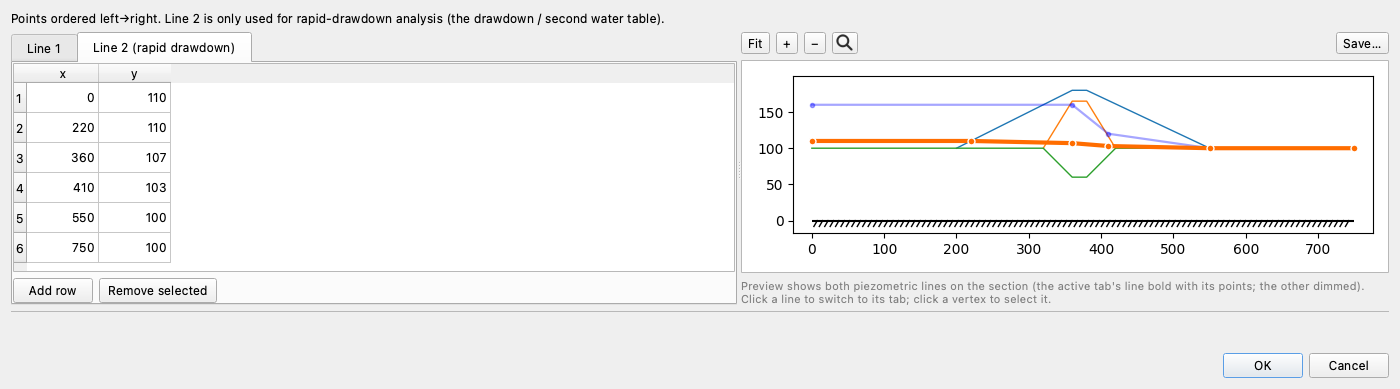
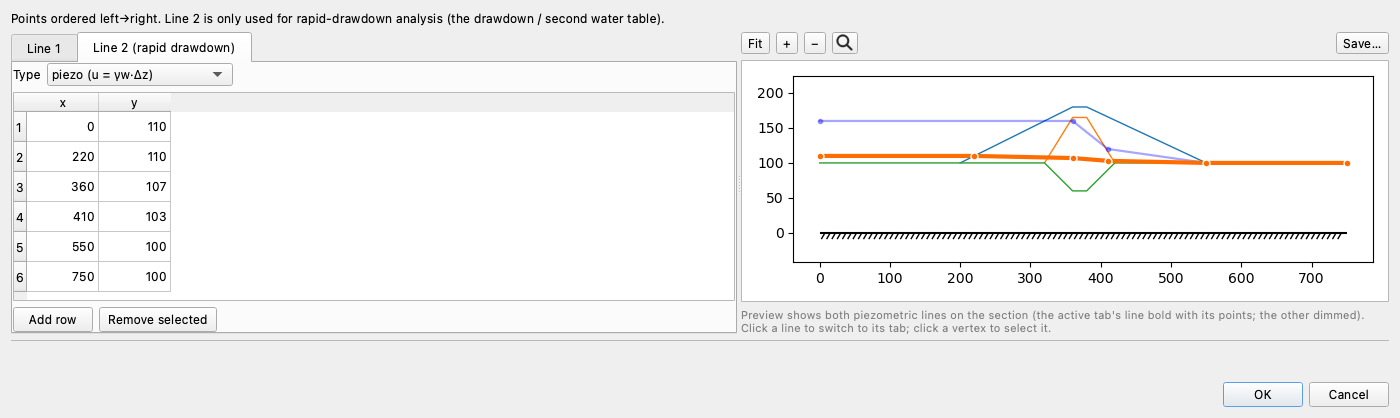
Studio's Piezometric lines editor sets each line's Type (piezo or phreatic) in a box above its table; until now only the workbook could (Norm, 236a, 255a)
The piezo sheet's Type cells (B3 for line 1, E3 for line 2) decide how the pore
pressure under a line is computed: piezo, the full static head; phreatic, the
static head times cos^2 of the line's slope above the point. The editor showed
only the points, and the CE 544 seepage deck told students to set the Type in
the workbook.

- TabbedTableEditorDialog takes an optional per-tab property (tab_props), a
  combo above the tab's table, read back with tab_prop(i).
- PiezoEditor: 'piezo (u = gw.dz)' / 'phreatic (u = gw.dz.cos2 theta)' on each
  tab, with a tooltip; apply() writes piezo_phreatic and piezo_phreatic2. Tab
  names unchanged (LEM-4 names them).
- test/piezo_editor_check.py (run_tests roundtrip row 'piezo_editor'): the
  boxes show what the model holds in all four combinations, OK untouched writes
  them back, a flip is written and survives a save (B3/E3 read
  'phreatic'/'piezo'). Fails on main (no tab_prop).
- Docs: the editors table names the Type; the input template page says Studio
  sets it; LEM-4 says to leave Type at piezo. The three tutorial screenshots of
  the editor (LEM-4, LEM-5, COMBO-2) are recaptured with the box.

table_paste_check and docs_links_check pass.

Claude-Session: https://claude.ai/code/session_019MWct99sAN4cmZsDr6H3a8

diff --git a/test/piezo_editor_check.py b/test/piezo_editor_check.py
@@ -1,0 +1,125 @@
+"""Standing checks on the Studio Piezometric lines editor's Type, one per line.
+
+Each piezometric line carries a Type, the piezo sheet's Type cell (B3 for line 1, E3 for
+line 2): piezo, where u is the full static head below the line, or phreatic, where the
+static head is reduced by cos^2 of the line's slope. Until 2026-11 the editor showed only
+the points, so a phreatic line could be set only in the workbook, and the CE 544
+seepage deck told students so. Now each tab has a Type box above its table.
+
+  A. THE EDITOR SHOWS EACH LINE'S TYPE. Opened on a model whose line 1 is phreatic and
+     whose line 2 is piezo, the two boxes read phreatic and piezo, and the other way
+     round.
+  B. OK WRITES THE CHOICE. Flipping both boxes and pressing OK sets piezo_phreatic and
+     piezo_phreatic2 to match.
+  C. OPEN AND OK CHANGES NOTHING. Untouched, the editor writes back the Types it was
+     opened on, in all four combinations.
+  D. THE TYPE SURVIVES A SAVE. The model saved and read back carries the Types the
+     editor set, and the piezo sheet's B3 and E3 read 'phreatic' or 'piezo'.
+  E. THE TABS KEEP THEIR NAMES. Tutorial LEM-4 names them: "Line 1" and
+     "Line 2 (rapid drawdown)".
+
+Skips cleanly (exit 0) when PySide6 is not installed.
+"""
+import contextlib
+import io
+import os
+import sys
+import tempfile
+
+_HERE = os.path.dirname(os.path.abspath(__file__))
+_REPO = os.path.dirname(_HERE)
+if _REPO not in sys.path:
+    sys.path.insert(0, _REPO)
+
+os.environ.setdefault("QT_QPA_PLATFORM", "offscreen")
+
+#: A shipped model with a piezometric line on line 1.
+MODEL = os.path.join(_REPO, "docs/lem/files/xslope_gsat_piezo.xlsx")
+TABS = ("Line 1", "Line 2 (rapid drawdown)")
+
+
+def _load(path):
+    from xslope.fileio import load_slope_data
+    with contextlib.redirect_stdout(io.StringIO()):
+        return load_slope_data(path)
+
+
+def _boxes(dlg):
+    """The Type each tab's box shows, as the bool it stands for."""
+    return tuple(bool(dlg.tab_prop(i)) for i in range(2))
+
+
+def _set(dlg, i, phreatic):
+    combo, values = dlg._tab_combos[i]
+    combo.setCurrentIndex(values.index(phreatic))
+
+
+def run():
+    try:
+        from PySide6.QtWidgets import QApplication, QTabWidget
+    except ImportError:
+        print("  PySide6 not installed: skipped")
+        return []
+    QApplication.instance() or QApplication([])
+    from studio.editors import PiezoEditor
+    fails = []
+    base = _load(MODEL)
+
+    # A and C: what the boxes show, and that OK untouched writes it back
+    for types in ((True, False), (False, True), (False, False), (True, True)):
+        data = dict(base, piezo_phreatic=types[0], piezo_phreatic2=types[1])
+        ed = PiezoEditor()
+        dlg = ed.build(data, None)
+        shown = _boxes(dlg)
+        if shown != types:
+            fails.append(f"A. opened on Types {types}, the boxes read {shown}")
+        out = dict(data)
+        ed.apply(out, dlg)
+        if (out["piezo_phreatic"], out["piezo_phreatic2"]) != types:
+            fails.append(f"C. opened on {types} and OK'd untouched, the editor wrote "
+                         f"{(out['piezo_phreatic'], out['piezo_phreatic2'])}")
+        dlg.deleteLater()
+        print(f"  opened on {types}: boxes {shown}, OK untouched writes "
+              f"{(out['piezo_phreatic'], out['piezo_phreatic2'])}")
+
+    # B and D: flip both, OK, save, read back
+    from xslope.fileio import save_slope_data_to_xlsx
+    from openpyxl import load_workbook
+    data = dict(base, piezo_phreatic=False, piezo_phreatic2=True)
+    ed = PiezoEditor()
+    dlg = ed.build(data, None)
+    _set(dlg, 0, True)
+    _set(dlg, 1, False)
+    out = dict(data)
+    ed.apply(out, dlg)
+    tabs = [t.tabText(i) for t in dlg.findChildren(QTabWidget) for i in range(t.count())]
+    dlg.deleteLater()
+    if (out["piezo_phreatic"], out["piezo_phreatic2"]) != (True, False):
+        fails.append(f"B. flipped to (True, False), OK wrote "
+                     f"{(out['piezo_phreatic'], out['piezo_phreatic2'])}")
+    with tempfile.TemporaryDirectory() as d:
+        path = os.path.join(d, "piezo_type.xlsx")
+        with contextlib.redirect_stdout(io.StringIO()):
+            save_slope_data_to_xlsx(out, path)
+        back = _load(path)
+        ws = load_workbook(path)["piezo"]
+        cells = (ws["B3"].value, ws["E3"].value)
+    got = (bool(back.get("piezo_phreatic")), bool(back.get("piezo_phreatic2")))
+    print(f"  flipped to (True, False): OK wrote {(out['piezo_phreatic'], out['piezo_phreatic2'])}, "
+          f"saved B3/E3 {cells}, read back {got}")
+    if got != (True, False):
+        fails.append(f"D. saved and read back, the Types are {got}")
+    if cells != ("phreatic", "piezo"):
+        fails.append(f"D. the piezo sheet's B3 and E3 read {cells}")
+
+    # E: the tab names
+    for name in TABS:
+        if name not in tabs:
+            fails.append(f"E. the editor has no {name!r} tab; its tabs read {tabs}")
+    return fails
+
+
+if __name__ == "__main__":
+    f = run()
+    print("\n".join(["FAILED:"] + f) if f else "\nAll piezometric-line editor checks passed.")
+    sys.exit(1 if f else 0)

diff --git a/studio/editors.py b/studio/editors.py
@@ -3074,8 +3074,12 @@ class TabbedTableEditorDialog(QDialog):
 
     def __init__(self, title, tabs, parent=None, help_text=None,
                  preview_draw=None, preview_caption=None, pick_resolve=None,
-                 field_help=None, unit_labels=None):
+                 field_help=None, unit_labels=None, tab_props=None):
         # tabs: list of (tab_title, fields, rows, new_row)
+        # tab_props: None, or one entry per tab, each None or a per-TAB property edited
+        # by a combo above that tab's table: {"label", "items": [(display, value), ...],
+        # "value": the current value, "help": the combo's tooltip}. Read back with
+        # tab_prop(i). The piezometric lines carry their Type this way.
         super().__init__(parent)
         self.setWindowTitle(title)
         self._unit_labels = unit_labels
@@ -3097,10 +3101,34 @@ class TabbedTableEditorDialog(QDialog):
         self._tabs = QTabWidget()
         self._editables = []
         on_change = self._schedule_preview if preview_draw is not None else None
-        for tab_title, fields, rows, new_row in tabs:
+        self._tab_combos = []
+        for i, (tab_title, fields, rows, new_row) in enumerate(tabs):
             et = _EditableTable(fields, rows, new_row, on_change=on_change,
                                 unit_labels=self._unit_labels)
-            self._tabs.addTab(et, tab_title)
+            prop = tab_props[i] if tab_props else None
+            if prop is None:
+                self._tabs.addTab(et, tab_title)
+                self._tab_combos.append(None)
+            else:
+                page = QWidget()
+                col = QVBoxLayout(page)
+                col.setContentsMargins(0, 0, 0, 0)
+                row = QHBoxLayout()
+                row.addWidget(QLabel(prop["label"]))
+                combo = QComboBox()
+                values = [val for _, val in prop["items"]]
+                for display, _val in prop["items"]:
+                    combo.addItem(display)
+                combo.setCurrentIndex(values.index(prop["value"])
+                                      if prop["value"] in values else 0)
+                if prop.get("help"):
+                    combo.setToolTip(prop["help"])
+                row.addWidget(combo)
+                row.addStretch(1)
+                col.addLayout(row)
+                col.addWidget(et, 1)
+                self._tabs.addTab(page, tab_title)
+                self._tab_combos.append((combo, values))
             self._editables.append(et)
         if preview_draw is not None:
             from .canvas import PreviewPane
@@ -3173,6 +3201,15 @@ class TabbedTableEditorDialog(QDialog):
 
     def result_rows(self, index):
         return self._editables[index].result_rows()
+
+    def tab_prop(self, index):
+        """The value chosen in tab ``index``'s property combo, or None for a tab
+        without one."""
+        entry = self._tab_combos[index]
+        if entry is None:
+            return None
+        combo, values = entry
+        return values[combo.currentIndex()]
 
 
 class _BlockListWidget(QWidget):
@@ -6092,6 +6129,16 @@ PIEZO_HELP = {
     "y": "Y-coordinate (elevation) of a point on this piezometric line.",
 }
 
+#: Each line's Type, the piezo sheet's Type cell (B3 for line 1, E3 for line 2):
+#: what the line represents, and so how the pore pressure under it is computed.
+PIEZO_TYPES = [("piezo (u = γw·Δz)", False), ("phreatic (u = γw·Δz·cos²θ)", True)]
+PIEZO_TYPE_HELP = ("What this line represents, which sets the pore pressure under it. "
+                   "piezo (the default): a piezometric line, and u is the full static "
+                   "head, γw times the depth Δz below the line. phreatic: the water table "
+                   "in a slope with seepage along it, and the static head is reduced by "
+                   "cos²θ, with θ the slope of the line directly above the point. The "
+                   "piezo sheet's Type cell.")
+
 
 class PiezoEditor(CategoryEditor):
     label = "Piezometric lines"
@@ -6118,11 +6165,16 @@ class PiezoEditor(CategoryEditor):
                             "active tab's line bold with its points; the other dimmed). "
                             "Click a line to switch to its tab; click a vertex to select it.",
             pick_resolve=lambda x, y, tol, rpt: _pick_piezo(rpt, x, y, tol),
-            field_help=PIEZO_HELP)
+            field_help=PIEZO_HELP,
+            tab_props=[{"label": "Type", "items": PIEZO_TYPES,
+                        "value": bool(slope_data.get(key)), "help": PIEZO_TYPE_HELP}
+                       for key in ("piezo_phreatic", "piezo_phreatic2")])
 
     def apply(self, slope_data, dlg):
         slope_data["piezo_line"] = [(r["x"], r["y"]) for r in dlg.result_rows(0)]
         slope_data["piezo_line2"] = [(r["x"], r["y"]) for r in dlg.result_rows(1)]
+        slope_data["piezo_phreatic"] = bool(dlg.tab_prop(0))
+        slope_data["piezo_phreatic2"] = bool(dlg.tab_prop(1))
 
 
 # --- distributed loads (two sets; each a list of point blocks) -------------- #

diff --git a/run_tests.py b/run_tests.py
@@ -10011,6 +10011,11 @@ def run_interslice_admissibility_test(test):
 #: prints. Each module exposes ``run()`` returning a list of failure strings, so
 #: one runner serves them all rather than a near-identical function each.
 MODULE_CHECKS = {
+    'piezo_editor': (
+        'piezo_editor_check.py',
+        "Studio's Piezometric lines editor shows each line's Type (piezo or "
+        "phreatic), writes the one chosen, writes back what it opened on when OK'd "
+        "untouched, and the Type survives a save to the piezo sheet."),
     'flownet_boundary': (
         'flownet_boundary_check.py',
         "The flow lines follow the solver's velocity, hold one value along every "
@@ -17229,6 +17234,10 @@ def main():
         # rows the user already has. Builds dialogs offscreen and solves nothing.
         tests.append({'type': 'circles_editor', 'file': 'Studio circles editor',
                       'method': '-', 'source': 'circles_editor'})
+        # Studio's Piezometric lines editor carries each line's Type (piezo or
+        # phreatic), the piezo sheet's B3 and E3. Builds dialogs offscreen.
+        tests.append({'type': 'piezo_editor', 'file': 'Studio piezometric lines editor',
+                      'method': '-', 'source': 'piezo_editor'})
         # Guard a second FEM run in one Studio session: OK on an editor, a mesh
         # rebuild or opening a file closes the FEM results view, and the Run menu
         # must still update afterwards. Builds the window offscreen; solves nothing.

diff --git a/docs/studio/editing.md b/docs/studio/editing.md
@@ -20,7 +20,7 @@ open its editor:
 | **Materials** | The material table — name, unit weight, strength option and parameters, and (by mode) hydraulic and elastic properties. |
 | **Profile lines** | The profile-line geometry (master/detail); rebuilds the ground surface and material zones. |
 | **Polygons** | Polygon regions (for polygon-based models) — material zones, SSR overlays, mesh refinement regions, and joint-network regions. |
-| **Piezometric lines** | The two piezometric lines. |
+| **Piezometric lines** | The two piezometric lines, each with its **Type**: *piezo* or *phreatic*. |
 | **Failure surfaces** | Circles (center, radius/depth/intercept) or the non-circular surface (vertex table). |
 | **Distributed loads** | The two distributed-load sets, each load with its direction. |
 | **Reinforcement** | Reinforcement lines (rebuilt into the engine's display format). |

diff --git a/docs/tutorials/lem04_water_in_the_slope.md b/docs/tutorials/lem04_water_in_the_slope.md
@@ -283,8 +283,10 @@ the three lines stacked down the section:
 
 Click **Piezometric lines**. The editor holds the two lines on tabs — the
 water table on **Line 1**, and **Line 2 (rapid drawdown)**, which stays empty
-here. Press **Add row** eight times and enter the points from the table above,
-left to right.
+here. Leave **Type**, above the table, at *piezo*: the pore pressure under the
+line is then the full static head, γw times the depth below the line. Press
+**Add row** eight times and enter the points from the table above, left to
+right.
 
 ![The piezometric-lines editor holding the water table](images/lem04_studio_piezo.png)
 

diff --git a/docs/usage/input_template.md b/docs/usage/input_template.md
@@ -381,6 +381,8 @@ computed:
   and the phreatic-surface option in XSTABL, and it matters most on steep phreatic lines — on a flat line the two
   types are identical.
 
+In XSLOPE Studio, the **Piezometric lines** editor sets each line's Type in the box above its table.
+
 ![piezo.png](images/piezo.png)
 
 Choosing between them: if the line came from piezometer readings, a flow net, or a seepage analysis, it is a
